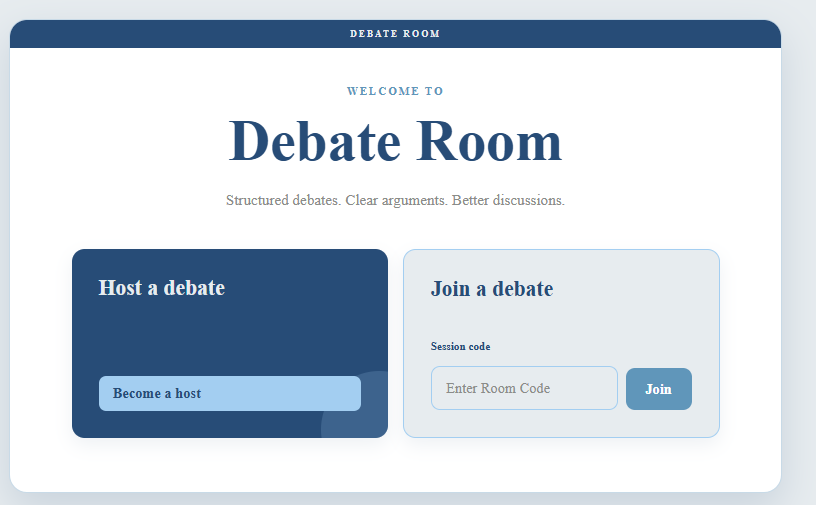
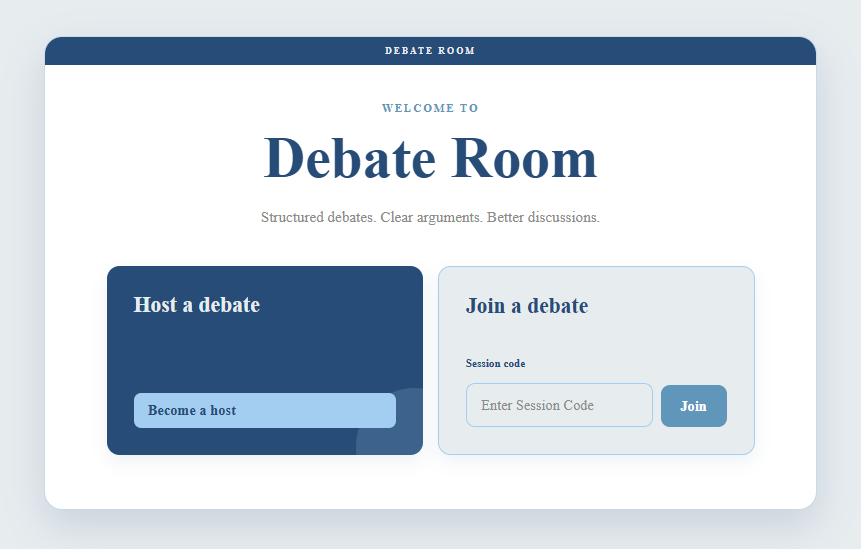
Image update

diff --git a/front-end/src/pages/LandingPage/LandingPage.tsx b/front-end/src/pages/LandingPage/LandingPage.tsx
@@ -37,7 +37,7 @@ function LandingPage() {
               label="Session code"
               name="session-code"
               value={sessionCode}
-              placeholder="Enter Room Code"
+              placeholder="Enter Session Code"
               onChange={(event) =>
                 setSessionCode(event.target.value.toUpperCase())
               }
